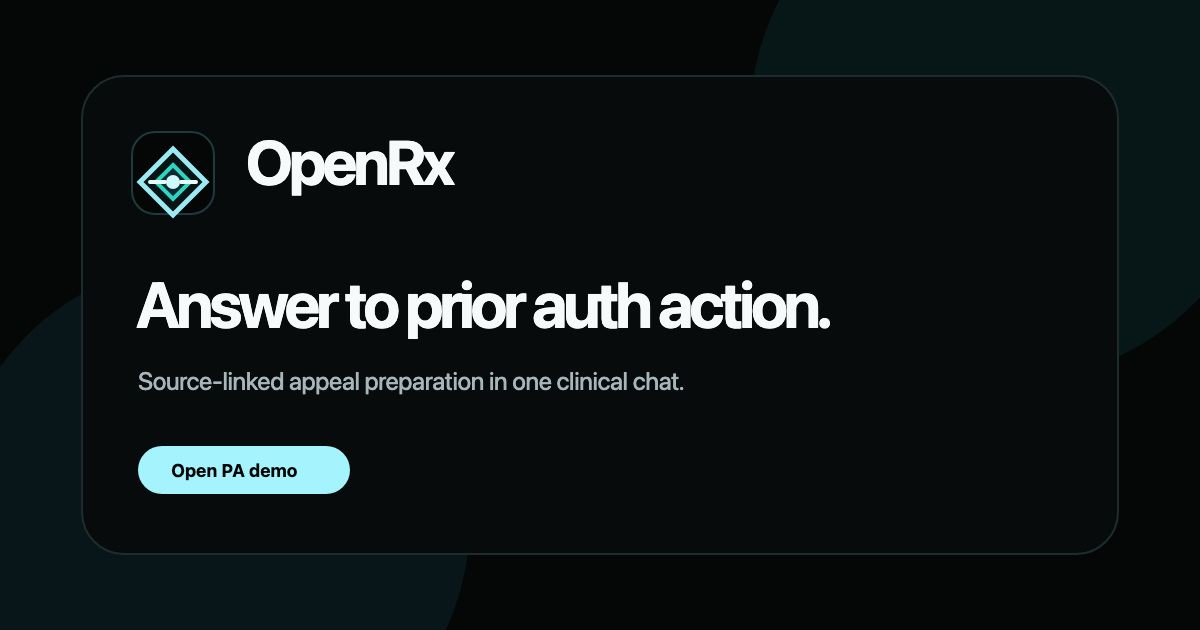
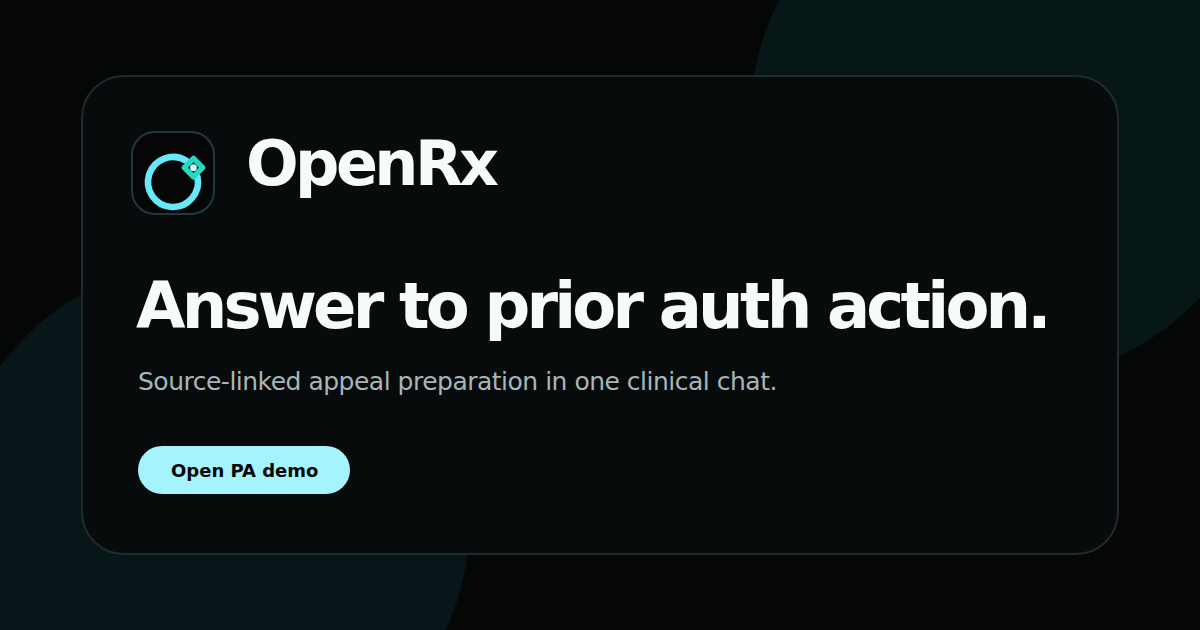
Harden referral endpoint, redesign brand mark, surface evidence stamps in UI
Security/hardening:
- Referral creation can no longer attribute a PHI-bearing referral to a
  caller-chosen patientId: wallet callers always act as themselves and only
  authenticated staff/service sessions may name a patient; added an HTTP
  authorization regression spec
- Caller-supplied directoryMatches capped at 25 entries

Brand:
- New OpenRx mark: an open ring closed by an evidence diamond (open record
  sealed by evidence), legible at favicon size; applied across BrandMark,
  icon.svg, apple-touch-icon, light/dark wordmarks, and the og-image
  (PNG regenerated from the SVG)

UI:
- Screening recommendation cards now show the guideline version in the
  source link, an evidence-grade chip, and the engine-version stamp
- Landing page gains a fourth how-it-works step covering consent-scoped
  referrals

diff --git a/components/brand-logo.tsx b/components/brand-logo.tsx
@@ -14,9 +14,10 @@ const SIZE_PX: Record<NonNullable<BrandMarkProps["size"]>, { box: number; svg: n
 }
 
 /**
- * OpenRx mark: a geometric decision lens. The nested diamond reads as a
- * clinical signal moving from question to handoff without using a literal cross
- * or Rx glyph, and remains legible at favicon size.
+ * OpenRx mark: an open ring closed by a diamond. The ring is the open record
+ * (open access, nothing hidden); the diamond at the opening is the evidence
+ * marker that completes the loop. Two elements only, so it stays legible at
+ * favicon size, and it carries the diamond equity from the previous mark.
  */
 export function BrandMark({ className, iconClassName, size = "md", tone = "dark" }: BrandMarkProps) {
   const dims = SIZE_PX[size]
@@ -41,10 +42,22 @@ export function BrandMark({ className, iconClassName, size = "md", tone = "dark"
         className={cn("relative", iconClassName)}
         aria-hidden
       >
-        <path d="M12 2.8 21.2 12 12 21.2 2.8 12 12 2.8Z" fill={isLight ? "#F7FBFB" : "#081314"} stroke={isLight ? "#0F3E47" : "#9BEAF3"} strokeWidth="1.9" />
-        <path d="M12 7.25 16.75 12 12 16.75 7.25 12 12 7.25Z" fill={isLight ? "#E6FAF8" : "#0D2A2E"} stroke={isLight ? "#0F766E" : "#2DD4BF"} strokeWidth="1.65" />
-        <circle cx="12" cy="12" r="1.8" fill={isLight ? "#0F766E" : "#CFFAFE"} />
-        <path d="M5.7 12h4M14.3 12h4" stroke={isLight ? "#0B1D22" : "#E6FFFB"} strokeWidth="1.55" strokeLinecap="round" />
+        {/* Open ring: arc sweeps the long way, leaving a gap at the top right */}
+        <path
+          d="M 16.03 5.55 A 7.6 7.6 0 1 0 19.43 10.42"
+          stroke={isLight ? "#0F766E" : "#67E8F9"}
+          strokeWidth="2.1"
+          strokeLinecap="round"
+        />
+        {/* Evidence diamond seals the opening */}
+        <path
+          d="M 18.23 4.84 L 21.03 7.64 L 18.23 10.44 L 15.43 7.64 Z"
+          fill={isLight ? "#E6FAF8" : "#0D2A2E"}
+          stroke={isLight ? "#0F3E47" : "#2DD4BF"}
+          strokeWidth="1.7"
+          strokeLinejoin="round"
+        />
+        <circle cx="18.23" cy="7.64" r="1.05" fill={isLight ? "#0F766E" : "#CFFAFE"} />
       </svg>
     </div>
   )

diff --git a/app/(app)/screening/page.tsx b/app/(app)/screening/page.tsx
@@ -1453,17 +1453,32 @@ export default function ScreeningPage() {
                               </div>
                               <div className="mt-2 flex flex-wrap gap-1.5">
                                 <span className="chip">{rec.riskCategory.replaceAll("_", " ")}</span>
-                                {source?.url ? (
-                                  <a href={source.url} target="_blank" rel="noreferrer" className="chip hover:border-teal/30 hover:text-teal">
-                                    {rec.sourceSystem} source
+                                {rec.sourceUrl || source?.url ? (
+                                  <a
+                                    href={rec.sourceUrl || source?.url}
+                                    target="_blank"
+                                    rel="noreferrer"
+                                    className="chip hover:border-teal/30 hover:text-teal"
+                                    data-testid="recommendation-source-link"
+                                  >
+                                    {rec.sourceSystem}
+                                    {rec.sourceVersion && rec.sourceVersion !== "not_implemented" ? ` · ${rec.sourceVersion}` : " source"}
                                     <ExternalLink size={10} />
                                   </a>
                                 ) : <span className="chip">Needs clinician review</span>}
+                                {rec.evidenceGrade ? (
+                                  <span className="chip" data-testid="recommendation-evidence-grade">Grade {rec.evidenceGrade}</span>
+                                ) : null}
                                 {rec.suggestedTiming ? <span className="chip">{rec.suggestedTiming}</span> : null}
                                 {rec.requiresClinicianReview ? <span className="chip">clinician review</span> : null}
                               </div>
                               <p className="mt-3 text-sm leading-6 text-secondary">{rec.patientFriendlyExplanation}</p>
                               <p className="mt-2 text-xs leading-5 text-muted">{rec.rationale}</p>
+                              {rec.engineVersion ? (
+                                <p className="mt-2 font-mono text-[10px] tracking-wide text-subtle" data-testid="recommendation-engine-stamp">
+                                  {rec.engineVersion}
+                                </p>
+                              ) : null}
                               <div className="mt-4 rounded-[18px] border border-[rgba(82,108,139,0.12)] bg-white/[0.045] p-3">
                                 <div className="flex flex-wrap items-center justify-between gap-2">
                                   <p className="text-[11px] font-bold uppercase tracking-[0.12em] text-primary">Next step</p>

diff --git a/app/page.tsx b/app/page.tsx
@@ -46,6 +46,11 @@ const HOW_IT_WORKS = [
     title: "Denial to appeal, sandboxed",
     body: "Bring a prior-authorization denial and walk a synthetic case from evidence retrieval to a clinician-reviewable appeal draft, with a simulated FHIR trace and an audit row for every step.",
   },
+  {
+    step: "04",
+    title: "Referrals only with consent",
+    body: "Choose a verified provider and approve exactly the fields you share — every disclosure is consent-scoped, hashed, and audit-logged, and notifications carry only a neutral link.",
+  },
 ]
 
 export default function HomePage() {
@@ -135,7 +140,7 @@ export default function HomePage() {
         <h2 id="how-heading" className="section-title">
           How OpenRx works
         </h2>
-        <ol className="mt-5 grid gap-4 sm:grid-cols-3">
+        <ol className="mt-5 grid gap-4 sm:grid-cols-2 lg:grid-cols-4">
           {HOW_IT_WORKS.map((item) => (
             <li key={item.step} className="surface-card p-5">
               <span className="font-mono text-[11px] text-accent">{item.step}</span>